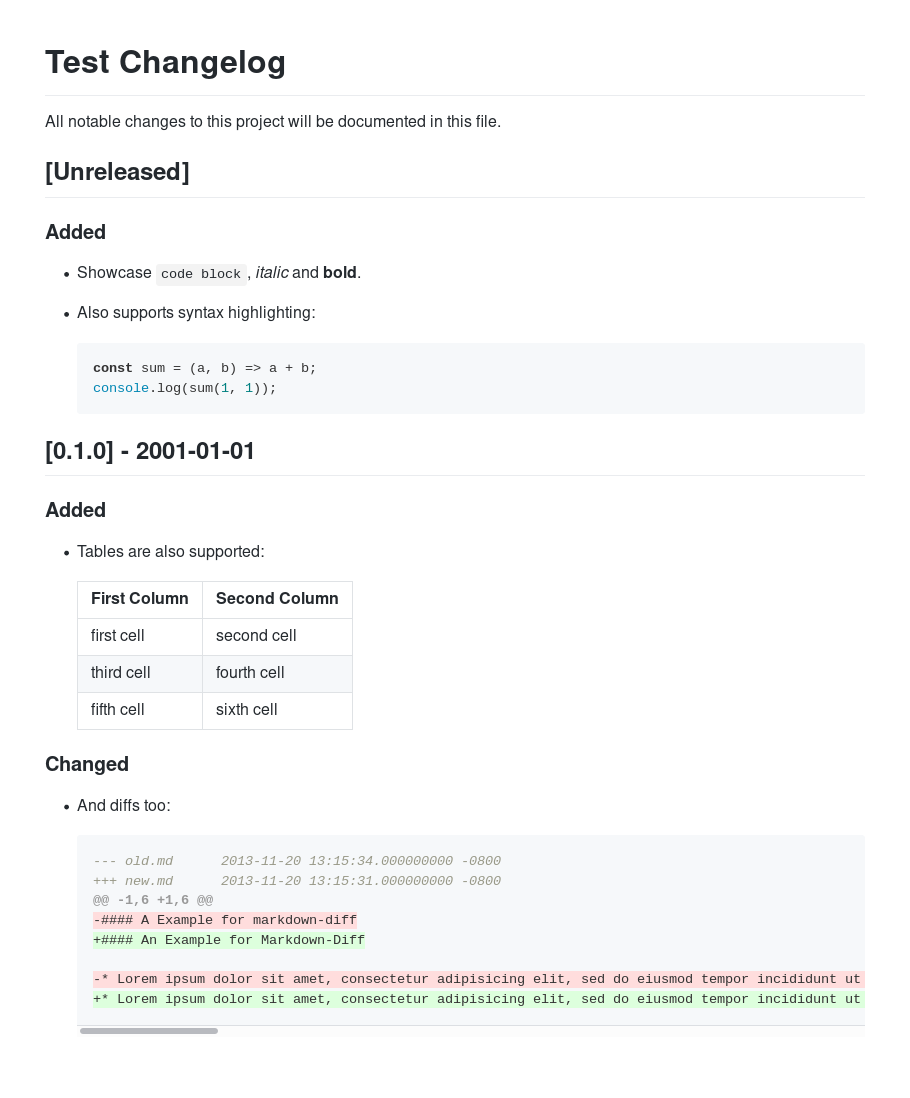
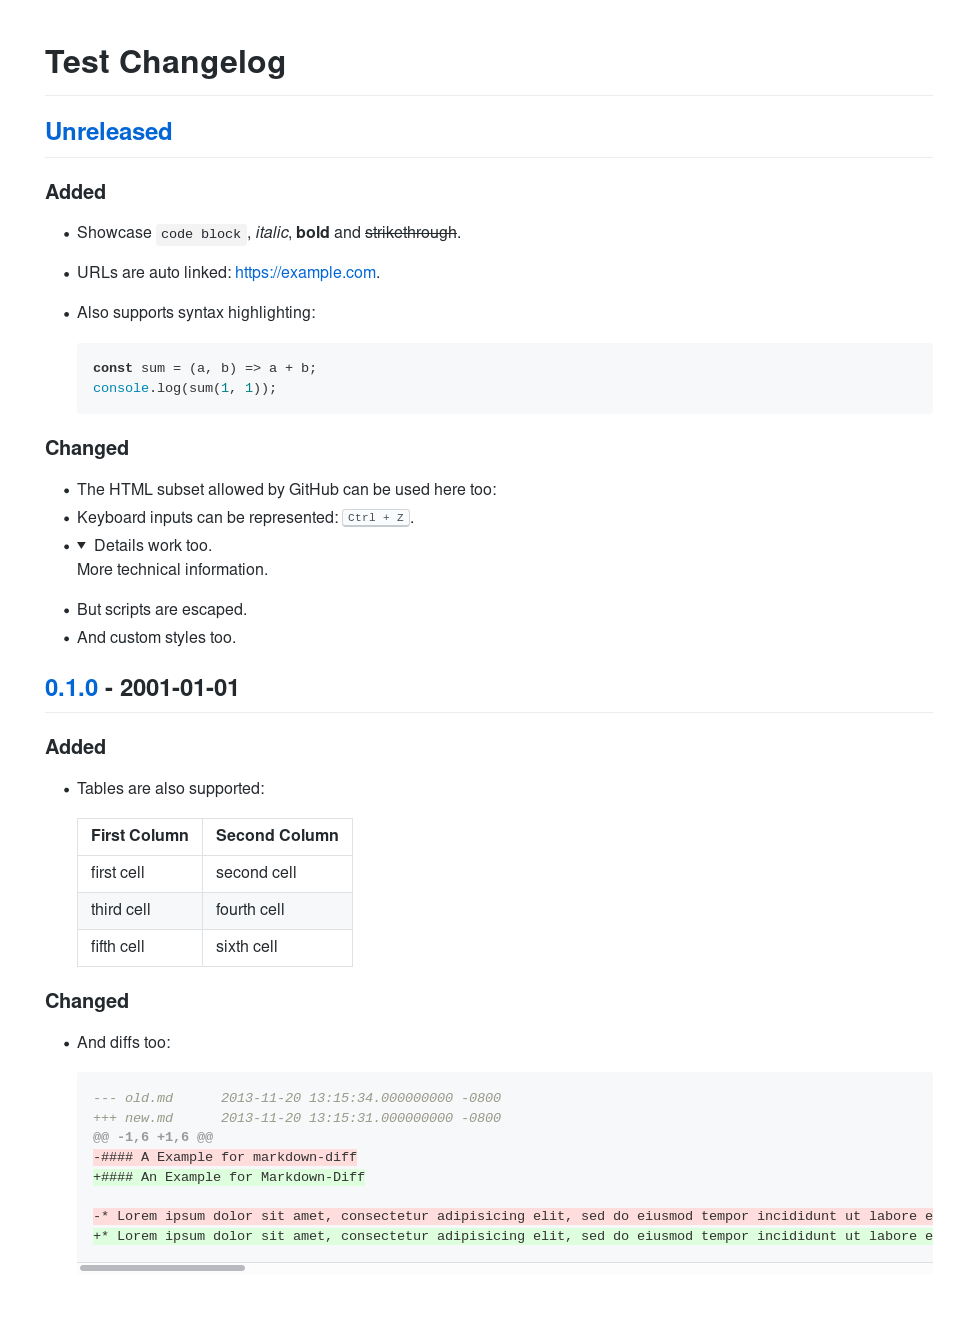
Allow HTML tags and attributes supported by GitHub

Changed region(s): [[0.0308, 0.031, 0.9538, 0.9599]]

diff --git a/src/sanitize-html-like-github.js b/src/sanitize-html-like-github.js
@@ -1,0 +1,155 @@
+'use strict';
+
+const sanitizeHtml = require('sanitize-html');
+
+const classAttributeNeededForGitHubStyle = 'class';
+
+// Taken from https://github.com/jch/html-pipeline/blob/cdb943678efc905ec542487f33413e0ba0d322f3/lib/html/pipeline/sanitization_filter.rb#L41-L72.
+// See https://github.com/github/markup/issues/245
+/* eslint-disable id-length, sort-keys */
+const gitHubOptions = {
+  allowedTags: [
+    'h1',
+    'h2',
+    'h3',
+    'h4',
+    'h5',
+    'h6',
+    'h7',
+    'h8',
+    'br',
+    'b',
+    'i',
+    'strong',
+    'em',
+    'a',
+    'pre',
+    'code',
+    'img',
+    'tt',
+    'div',
+    'ins',
+    'del',
+    'sup',
+    'sub',
+    'p',
+    'ol',
+    'ul',
+    'table',
+    'thead',
+    'tbody',
+    'tfoot',
+    'blockquote',
+    'dl',
+    'dt',
+    'dd',
+    'kbd',
+    'q',
+    'samp',
+    'var',
+    'hr',
+    'ruby',
+    'rt',
+    'rp',
+    'li',
+    'tr',
+    'td',
+    'th',
+    's',
+    'strike',
+    'summary',
+    'details',
+    // Some more custom tags for the permalink icons and GitHub syntax highlighting.
+    'path',
+    'span',
+    'svg',
+  ],
+  allowedAttributes: {
+    a: ['href', classAttributeNeededForGitHubStyle],
+    img: ['src', 'longdesc'],
+    div: ['itemscope', 'itemtype'],
+    blockquote: ['cite'],
+    del: ['cite'],
+    ins: ['cite'],
+    q: ['cite'],
+    '*': [
+      'abbr',
+      'accept',
+      'accept-charset',
+      'accesskey',
+      'action',
+      'align',
+      'alt',
+      'axis',
+      'border',
+      'cellpadding',
+      'cellspacing',
+      'char',
+      'charoff',
+      'charset',
+      'checked',
+      'clear',
+      'cols',
+      'colspan',
+      'color',
+      'compact',
+      'coords',
+      'datetime',
+      'dir',
+      'disabled',
+      'enctype',
+      'for',
+      'frame',
+      'headers',
+      'height',
+      'hreflang',
+      'hspace',
+      'ismap',
+      'label',
+      'lang',
+      'maxlength',
+      'media',
+      'method',
+      'multiple',
+      'name',
+      'nohref',
+      'noshade',
+      'nowrap',
+      'open',
+      'prompt',
+      'readonly',
+      'rel',
+      'rev',
+      'rows',
+      'rowspan',
+      'rules',
+      'scope',
+      'selected',
+      'shape',
+      'size',
+      'span',
+      'start',
+      'summary',
+      'tabindex',
+      'target',
+      'title',
+      'type',
+      'usemap',
+      'valign',
+      'value',
+      'vspace',
+      'width',
+      'itemprop',
+    ],
+    // Some more custom tags for the permalink icons and GitHub syntax highlighting.
+    path: ['d'],
+    pre: [classAttributeNeededForGitHubStyle],
+    span: [classAttributeNeededForGitHubStyle],
+    svg: ['aria-hidden', 'class', 'height', 'version', 'viewbox', 'width'],
+  },
+};
+/* eslint-enable id-length, sort-keys */
+
+const sanitizeHtmlLikeGitHub = html => sanitizeHtml(html, gitHubOptions);
+
+module.exports = {sanitizeHtmlLikeGitHub};

diff --git a/src/index.js b/src/index.js
@@ -10,6 +10,7 @@ const gitHubCssFilePath = require.resolve('github-markdown-css');
 const highlightCssFilePath = require.resolve('highlight.js/styles/github.css');
 
 const {markdownItChangelogPlugin} = require('./markdown-it-changelog-plugin');
+const {sanitizeHtmlLikeGitHub} = require('./sanitize-html-like-github');
 
 const srcDirectoryPath = __dirname;
 const faviconFilename = 'favicon.ico';
@@ -23,6 +24,8 @@ const createMarkdownRenderer = h1TitleCb => {
           ? highlightJs.highlight(language, code, true).value
           : markdownRenderer.utils.escapeHtml(code)
       }</code></pre>`,
+    html: true,
+    linkify: true,
     typographer: true,
   }).use(markdownItChangelogPlugin, {h1TitleCb});
   return markdownRenderer;
@@ -55,9 +58,11 @@ const convertChangelog = ({
     )
     .then(([markdown, htmlTemplate]) => {
       const replacements = {content: null, title: null};
-      replacements.content = createMarkdownRenderer(h1Title => {
-        replacements.title = h1Title;
-      }).render(markdown);
+      replacements.content = sanitizeHtmlLikeGitHub(
+        createMarkdownRenderer(h1Title => {
+          replacements.title = h1Title;
+        }).render(markdown)
+      );
       return Object.keys(replacements).reduce(
         (html, key) => html.replace(`<!-- ${key} -->`, replacements[key]),
         htmlTemplate

diff --git a/src/markdown-it-changelog-plugin.js b/src/markdown-it-changelog-plugin.js
@@ -62,7 +62,6 @@ const markdownItChangelogPlugin = (md, {h1TitleCb}) => {
 
       const slug = getGitHubSlug(breadcrumbs.join('-').replace(/\./g, '-'));
       const linkOpenToken = new Token('link_open', 'a', 1);
-      linkOpenToken.attrSet('id', slug);
       linkOpenToken.attrSet('href', `#${slug}`);
       linkOpenToken.attrSet('class', 'anchor');
 

diff --git a/src/__tests__/TEST_CHANGELOG.md b/src/__tests__/TEST_CHANGELOG.md
@@ -1,18 +1,25 @@
 # Test Changelog
 
-All notable changes to this project will be documented in this file.
-
 ## [Unreleased]
 
 ### Added
 
-* Showcase `code block`, _italic_ and **bold**.
+* Showcase `code block`, _italic_, **bold** and ~~strikethrough~~.
+* URLs are auto linked: https://example.com.
 * Also supports syntax highlighting:
 
   ```javascript
   const sum = (a, b) => a + b;
   console.log(sum(1, 1));
   ```
+
+### Changed
+
+* The HTML subset allowed by GitHub can be used here too:
+* Keyboard inputs can be represented: <kbd>Ctrl + Z</kbd>.
+* <details><summary>Details work too.</summary><p>More technical information.</p></details>
+* But scripts are escaped. <script>alert('Nope.')</script>
+* And custom styles too. <style>body {color: pink !important}</style>
 
 ## [0.1.0] - 2001-01-01
 
@@ -40,3 +47,6 @@ All notable changes to this project will be documented in this file.
   -* Lorem ipsum dolor sit amet, consectetur adipisicing elit, sed do eiusmod tempor incididunt ut labore et dolore magna aliqua. Ut enim ad minim veinam, quis nostrud exercitation ullamco laboris nisi ut aliquip ex ea commodo consequat. Duis aute irure dolor in reprehenderit in voluptate velit esse cillum dolore eu fugiat nulla pariatur. Excepteur sint occaecat cupidatat non proident, sunt in culpa qui officia deserunt mollit anim id est laborum.
   +* Lorem ipsum dolor sit amet, consectetur adipisicing elit, sed do eiusmod tempor incididunt ut labore et dolore magna aliqua. Ut enim ad minim veniam, quis nostrud exercitation ullamco laboris nisi ut aliquip ex ea commodo consequat. Duis aute irure dolor in reprehenderit in voluptate velit esse cillum dolore eu fugiat nulla pariatur. Excepteur sint occaecat cupidatat non proident, sunt in culpa qui officia deserunt mollit anim id est laborum.
   ```
+
+[unreleased]: https://example.com/#HEAD
+[0.1.0]: https://example.com/#1.0.0
